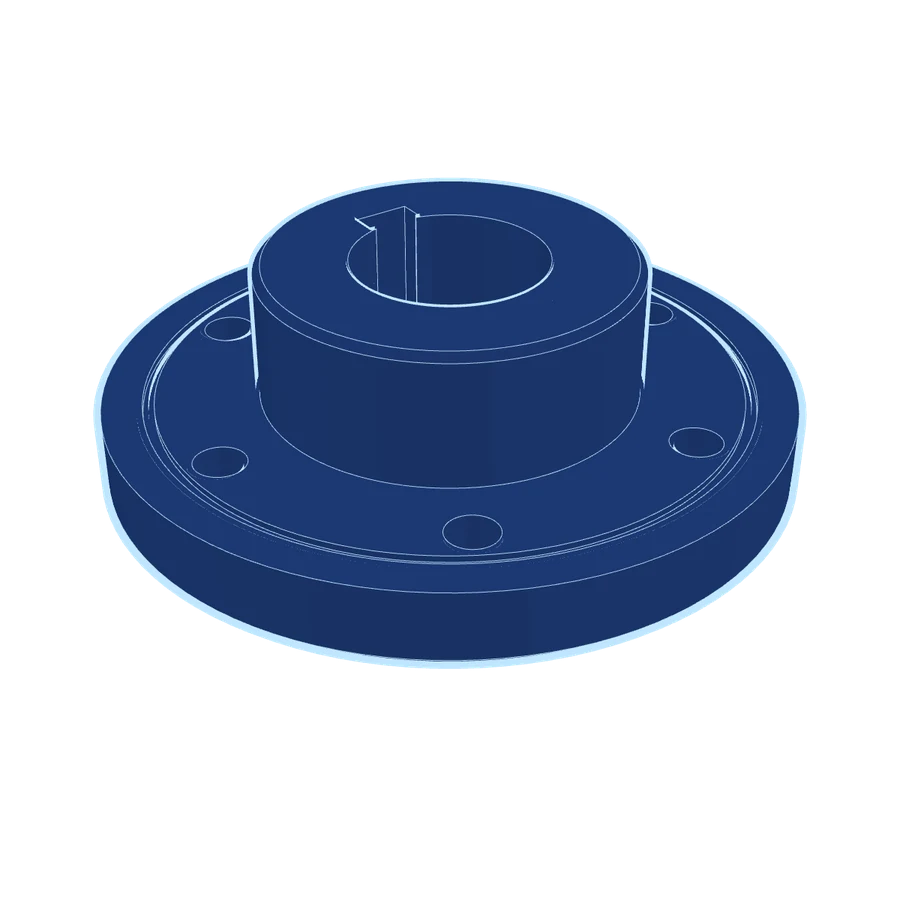
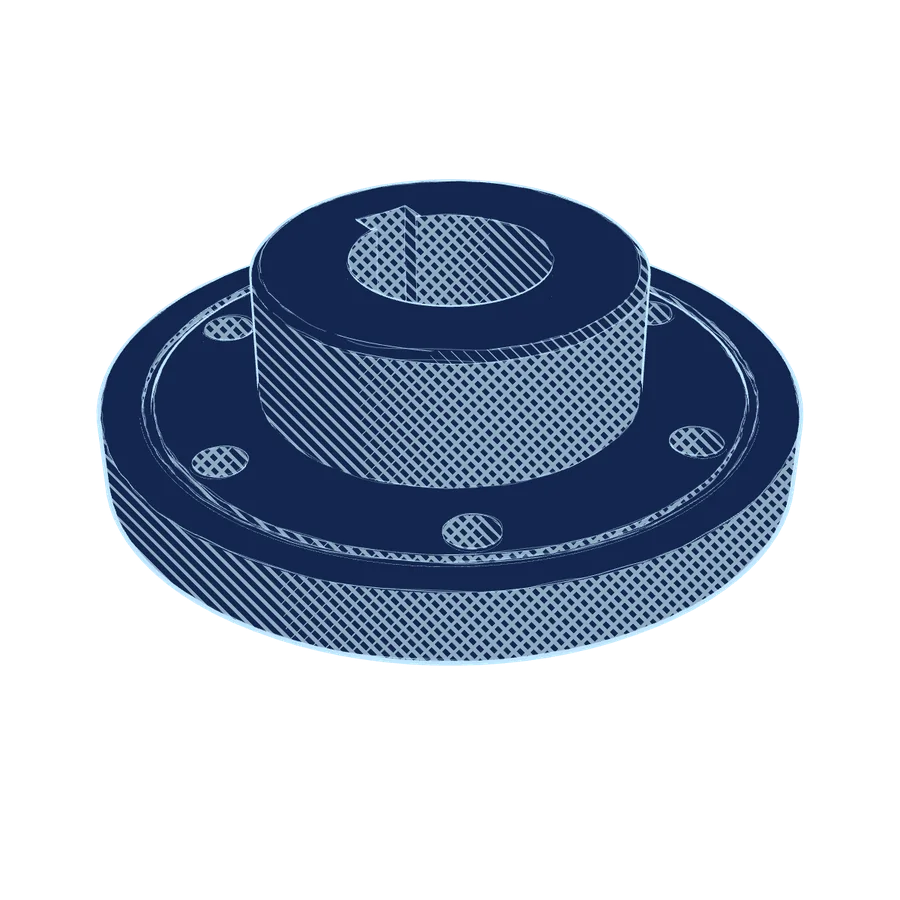
feat: disco a matita con tratteggio e linee irregolari
Il pezzo della prima schermata e' ora un disegno a matita: riempimento a tratteggio (piu' fitto nelle zone in ombra), spigoli ridisegnati due volte con una leggera irregolarita', contorno sottile. Foto di partenza rifatte per i due temi. Versione file v=46.

Changed region(s): [[0.0933, 0.1867, 0.9022, 0.7467]]

diff --git a/js/hero3d.js b/js/hero3d.js
@@ -77,6 +77,7 @@ import { RoomEnvironment } from "./vendor/RoomEnvironment.js";
     interno.rotation.z = ANGOLO_INIZIO + (ridotto ? 0 : t * VELOCITA);
     esterno.rotation.y += (mouseX * 0.35 - esterno.rotation.y) * 0.05;
     esterno.rotation.x += (INCLINAZIONE + mouseY * 0.18 - esterno.rotation.x) * 0.05;
+    aggiornaUniformi();
     renderer.render(scena, camera);
   }
 
@@ -86,18 +87,55 @@ import { RoomEnvironment } from "./vendor/RoomEnvironment.js";
     disegna((ora - t0) / 1000);
   }
 
-  // Colori del disegno: linee scure su carta nel tema chiaro, linee chiare su blu notte nel tema scuro
-  var matRiempi = null, matContorno = null, matSpigoli = null;
+  // ---------- Disegno a matita ----------
+  // Riempimento: carta con tratteggio (le ombre sono righe oblique, piu' fitte dove e' piu' scuro).
+  // Spigoli: ridisegnati due volte con una piccola irregolarita' fissa sul pezzo (la mano non e' una riga).
+  var matRiempi = null, matContorno = null, matSpigoli = [];
   function temaChiaro() { return document.documentElement.getAttribute("data-theme") === "light"; }
   function applicaTema(chiaro) {
     if (!matRiempi) return;
-    matRiempi.color.setHex(chiaro ? 0xffffff : 0x2a4a8c);
-    matContorno.color.setHex(chiaro ? 0x1c2540 : 0xbfe6ff);
-    matSpigoli.color.setHex(chiaro ? 0x1c2540 : 0xbfe6ff);
-    matSpigoli.opacity = chiaro ? 0.9 : 0.85;
-    luceChiave.intensity = chiaro ? 2.8 : 1.4;   // su carta il disegno e' quasi bianco
-    luceEmi.intensity = chiaro ? 1.6 : 0.55;
+    var inchiostro = chiaro ? 0x2b3448 : 0xbfe6ff;
+    matRiempi.uniforms.uCarta.value.setHex(chiaro ? 0xfdfdfb : 0x14264f);
+    matRiempi.uniforms.uInchiostro.value.setHex(inchiostro);
+    matRiempi.uniforms.uForza.value = chiaro ? 0.72 : 0.5;
+    matContorno.color.setHex(chiaro ? 0x232b3d : 0xbfe6ff);
+    matSpigoli.forEach(function (m, k) { m.color.setHex(inchiostro); m.opacity = (k === 0 ? 0.92 : 0.5) * (chiaro ? 1 : 0.9); });
   }
+  function aggiornaUniformi() { if (matRiempi) matRiempi.uniforms.uAltezza.value = canvas.height; }
+  function rumore(x, y, z, seme) {
+    return (Math.sin(x * 0.34 + seme) + Math.sin(y * 0.41 + seme * 1.7) + Math.sin(z * 0.29 + seme * 2.3) + 0.5 * Math.sin((x + y + z) * 0.95 + seme * 3.1)) / 3.5;
+  }
+  function spigoliSchizzo(geom, seme, ampiezza, mat) {
+    var eg = new THREE.EdgesGeometry(geom, 28), p = eg.attributes.position, out = [];
+    var a = new THREE.Vector3(), b = new THREE.Vector3(), q = new THREE.Vector3();
+    for (var i = 0; i < p.count; i += 2) {
+      a.fromBufferAttribute(p, i); b.fromBufferAttribute(p, i + 1);
+      var n = Math.max(1, Math.ceil(a.distanceTo(b) / 3)), prec = null;
+      for (var k = 0; k <= n; k++) {
+        q.lerpVectors(a, b, k / n);
+        var pt = [q.x + ampiezza * rumore(q.x, q.y, q.z, seme), q.y + ampiezza * rumore(q.y, q.z, q.x, seme + 1.3), q.z + ampiezza * rumore(q.z, q.x, q.y, seme + 2.1)];
+        if (prec) out.push(prec[0], prec[1], prec[2], pt[0], pt[1], pt[2]);
+        prec = pt;
+      }
+    }
+    var g = new THREE.BufferGeometry(); g.setAttribute("position", new THREE.Float32BufferAttribute(out, 3));
+    return new THREE.LineSegments(g, mat);
+  }
+  var VERT_MATITA = "varying vec3 vN; void main() { vN = normalize(normalMatrix * normal); gl_Position = projectionMatrix * modelViewMatrix * vec4(position, 1.0); }";
+  var FRAG_MATITA = [
+    "uniform vec3 uCarta; uniform vec3 uInchiostro; uniform float uAltezza; uniform float uForza; varying vec3 vN;",
+    "float tratto(float coord, float sp, float w) { float s = abs(fract(coord / sp) - 0.5) * 2.0; return step(0.02, w) * smoothstep(1.0 - w - 0.10, 1.0 - w, s); }",
+    "void main() {",
+    "  vec3 n = normalize(vN); vec3 L = normalize(vec3(-0.45, 0.75, 0.55));",
+    "  float luce = max(dot(n, L), 0.0);",
+    "  float ombra = 1.0 - (0.30 + 0.70 * luce);",
+    "  float sp = uAltezza / 72.0;",
+    "  float w1 = smoothstep(0.14, 0.65, ombra) * 0.42;",
+    "  float w2 = smoothstep(0.50, 0.75, ombra) * 0.34;",
+    "  float t = max(tratto(gl_FragCoord.x + gl_FragCoord.y, sp, w1), tratto(gl_FragCoord.x - gl_FragCoord.y, sp * 1.18, w2));",
+    "  gl_FragColor = vec4(mix(uCarta, uInchiostro, t * uForza), 1.0);",
+    "  #include <colorspace_fragment>",
+    "}"].join("\n");
   if (!modo3d && window.MutationObserver) {
     new MutationObserver(function () { applicaTema(temaChiaro()); if (pronto && !visibile) disegna(0); }).observe(document.documentElement, { attributes: true, attributeFilter: ["data-theme"] });
   }
@@ -112,14 +150,14 @@ import { RoomEnvironment } from "./vendor/RoomEnvironment.js";
       var spigoli3d = new THREE.LineSegments(new THREE.EdgesGeometry(geom, 38), new THREE.LineBasicMaterial({ color: 0x22d3ee, transparent: true, opacity: 0.28 }));
       gruppo.add(new THREE.Mesh(geom, materiale), spigoli3d);
     } else {
-      // Disegno tecnico: contorno spesso (guscio rovesciato), riempimento a 3 toni, spigoli sottili
-      var tre = new THREE.DataTexture(new Uint8Array([200, 230, 255]), 3, 1, THREE.RedFormat);
-      tre.minFilter = tre.magFilter = THREE.NearestFilter; tre.needsUpdate = true;
-      matRiempi = new THREE.MeshToonMaterial({ color: 0xf3f6fb, gradientMap: tre, polygonOffset: true, polygonOffsetFactor: 1, polygonOffsetUnits: 1 });
-      matContorno = new THREE.MeshBasicMaterial({ color: 0x1c2540, side: THREE.BackSide });
-      matSpigoli = new THREE.LineBasicMaterial({ color: 0x1c2540, transparent: true, opacity: 0.9 });
-      var guscio = new THREE.Mesh(geom, matContorno); guscio.scale.setScalar(1.02);
-      gruppo.add(guscio, new THREE.Mesh(geom, matRiempi), new THREE.LineSegments(new THREE.EdgesGeometry(geom, 28), matSpigoli));
+      matRiempi = new THREE.ShaderMaterial({
+        uniforms: { uCarta: { value: new THREE.Color(0xfdfdfb) }, uInchiostro: { value: new THREE.Color(0x2b3448) }, uAltezza: { value: 1200 }, uForza: { value: 0.72 } },
+        vertexShader: VERT_MATITA, fragmentShader: FRAG_MATITA, polygonOffset: true, polygonOffsetFactor: 1, polygonOffsetUnits: 1
+      });
+      matContorno = new THREE.MeshBasicMaterial({ color: 0x232b3d, side: THREE.BackSide });
+      matSpigoli = [new THREE.LineBasicMaterial({ color: 0x2b3448, transparent: true, opacity: 0.92 }), new THREE.LineBasicMaterial({ color: 0x2b3448, transparent: true, opacity: 0.5 })];
+      var guscio = new THREE.Mesh(geom, matContorno); guscio.scale.setScalar(1.011);
+      gruppo.add(guscio, new THREE.Mesh(geom, matRiempi), spigoliSchizzo(geom, 1.0, 0.32, matSpigoli[0]), spigoliSchizzo(geom, 7.3, 0.6, matSpigoli[1]));
       applicaTema(temaChiaro());
     }
     interno.add(gruppo);
@@ -147,6 +185,7 @@ import { RoomEnvironment } from "./vendor/RoomEnvironment.js";
       renderer.setPixelRatio(1); renderer.setSize(lato, lato, false);
       camera.aspect = 1; camera.updateProjectionMatrix();
       esterno.rotation.set(INCLINAZIONE, 0, 0); interno.rotation.z = ANGOLO_INIZIO;
+      aggiornaUniformi();
       renderer.render(scena, camera);
       var url = canvas.toDataURL("image/png");
       renderer.setPixelRatio(Math.min(window.devicePixelRatio || 1, 2)); renderer.setSize(w, h, false);

diff --git a/index.html b/index.html
@@ -31,8 +31,8 @@
 <link rel="preload" as="fetch" href="img/hero-pezzo.bin" crossorigin>
 <link rel="modulepreload" href="js/vendor/three.module.min.js">
 <link rel="modulepreload" href="js/vendor/RoomEnvironment.js">
-<link rel="modulepreload" href="js/hero3d.js?v=45">
-<link rel="stylesheet" href="css/style.css?v=45">
+<link rel="modulepreload" href="js/hero3d.js?v=46">
+<link rel="stylesheet" href="css/style.css?v=46">
 </head>
 <body>
 
@@ -156,12 +156,12 @@
   </div>
 </footer>
 
-<script src="js/schedario.js?v=45"></script>
-<script src="js/prezzi.js?v=45"></script>
-<script src="js/testi.js?v=45"></script>
-<script src="js/i18n.js?v=45"></script>
-<script src="js/file.js?v=45"></script>
-<script src="js/app.js?v=45"></script>
-<script type="module" src="js/hero3d.js?v=45"></script>
+<script src="js/schedario.js?v=46"></script>
+<script src="js/prezzi.js?v=46"></script>
+<script src="js/testi.js?v=46"></script>
+<script src="js/i18n.js?v=46"></script>
+<script src="js/file.js?v=46"></script>
+<script src="js/app.js?v=46"></script>
+<script type="module" src="js/hero3d.js?v=46"></script>
 </body>
 </html>
